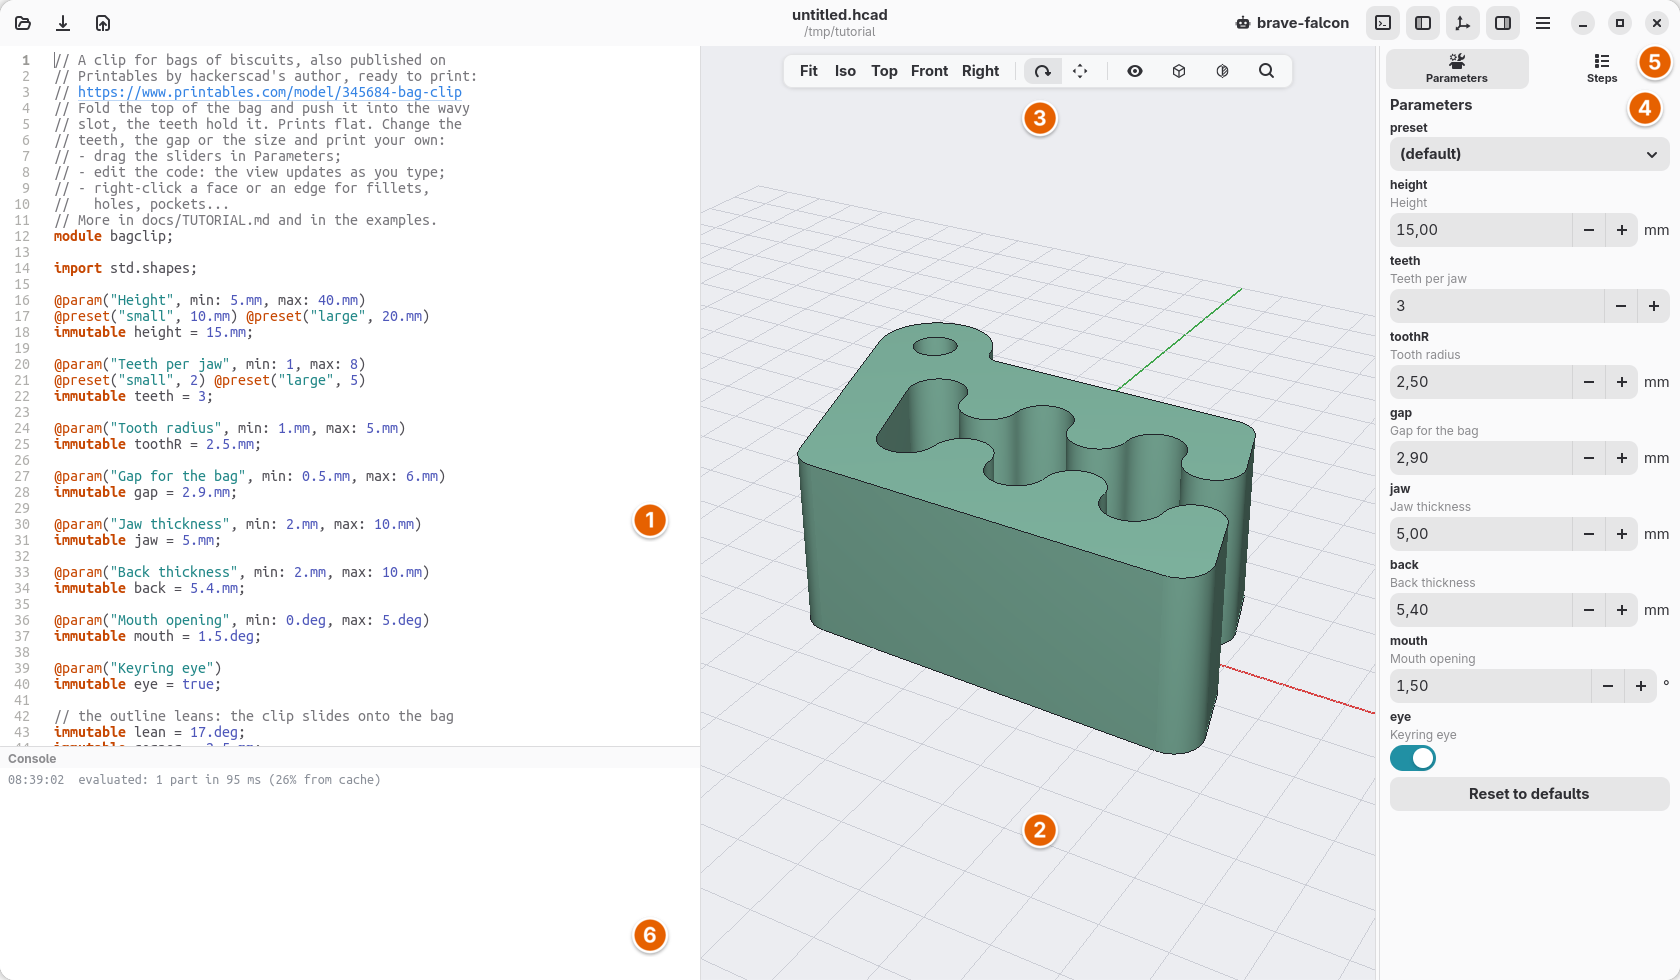
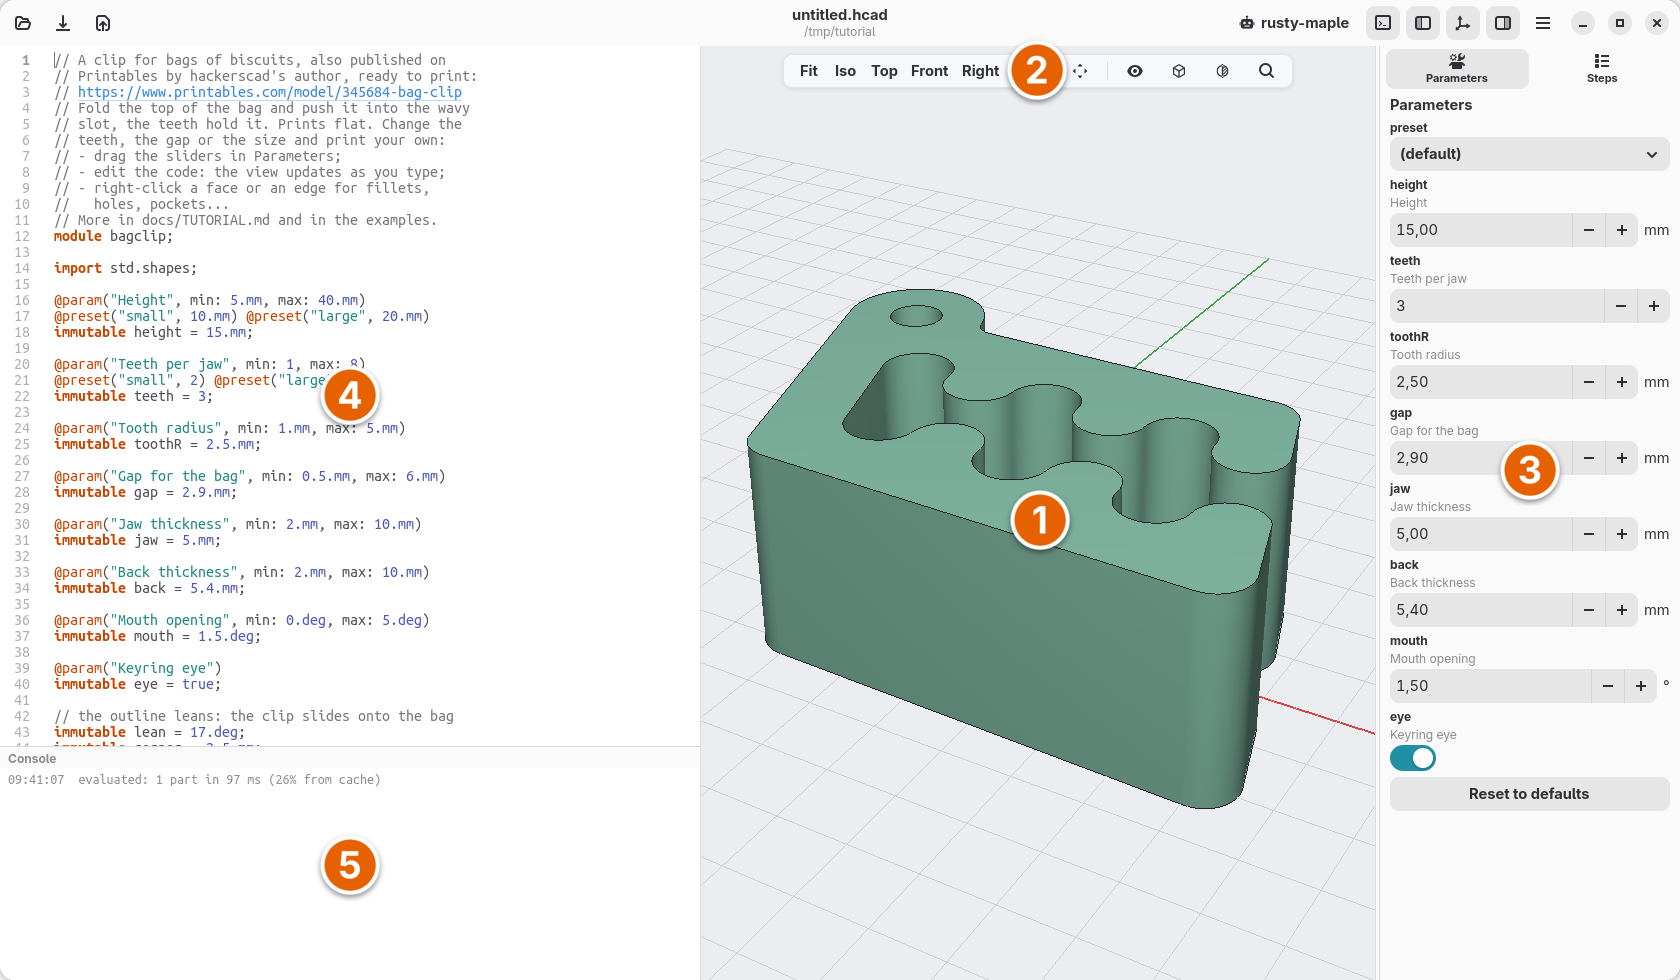
Number the parts of the window in order of use, larger and centred, and let the tutorial script redo single pages

diff --git a/docs/tutorial/02-the-window.md b/docs/tutorial/02-the-window.md
@@ -7,21 +7,22 @@ bag clip is still open; we use it to try things.
 
 ![The parts of the window](img/02-window.png)
 
-1. **The code.** A model in hackerscad is a short text, written in a small
-   language. You will rarely start from an empty page: the mouse writes most
-   of it for you, and the few lines to type are given in this tutorial, ready
-   to copy. Every change shows in the view while you type.
-2. **The view.** The model as the code describes it. Clicking a face selects
-   it and highlights the line of code that made it; right-clicking opens the
-   things you can do there.
-3. **The view bar.** The views (Fit, Iso, Top, Front, Right); how a left drag
+1. **The view.** The model as the code describes it. Drag with the right
+   button to turn it, with the middle one to move it, and use the wheel to
+   zoom. Clicking a face selects it and highlights the line of code that made
+   it; right-clicking opens the things you can do there.
+2. **The view bar.** The views (Fit, Iso, Top, Front, Right); how a left drag
    moves the view; the eye, to hide or show the parts; the cube, to choose how
    the parts are drawn; the section, to cut the model and look inside; the
    magnifying glass, to see what a line of code makes.
-4. **Parameters.** The sizes the model lets you change, without touching the
-   code.
-5. **Steps.** How the model is built, one step at a time.
-6. **The console.** What the model writes, its checks, and the messages of
+3. **Parameters and Steps.** Two tabs. *Parameters* has the sizes the model
+   lets you change, without touching the code; *Steps* shows how the model is
+   built, one step at a time.
+4. **The code.** A model in hackerscad is a short text, written in a small
+   language. You will rarely start from an empty page: the mouse writes most
+   of it for you, and the few lines to type are given in this tutorial, ready
+   to copy. Every change shows in the view while you type.
+5. **The console.** What the model writes, its checks, and the messages of
    hackerscad itself (evaluated, saved, exported).
 
 The buttons at the top right show or hide the console, the code, the view and
